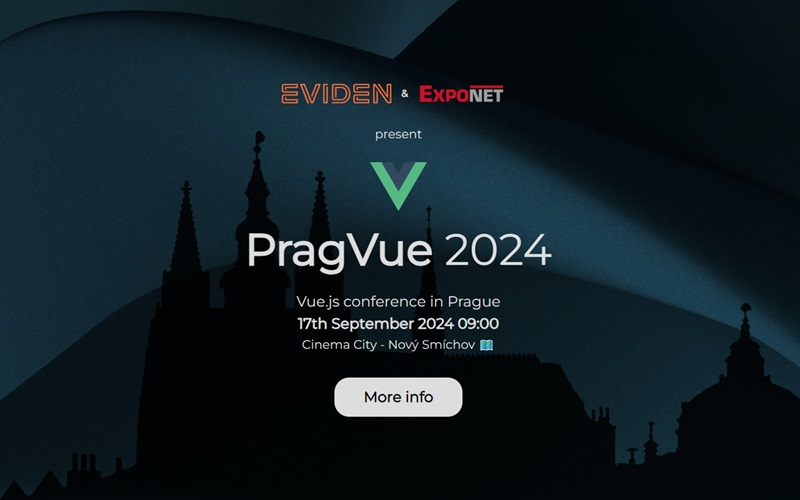
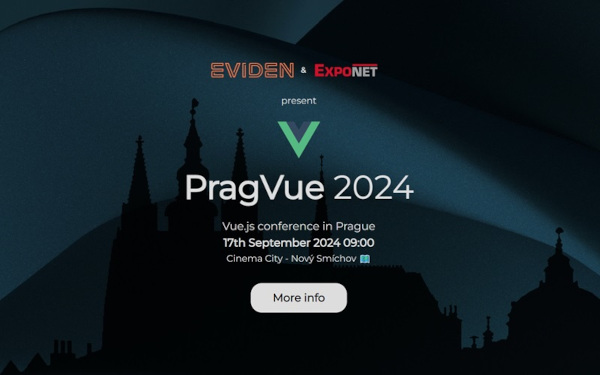
refactor: optimize images

Changed region(s): [[0.36, 0.5867, 0.6, 0.704], [0.63, 0.528, 0.66, 0.5573], [0.48, 0.792, 0.51, 0.8213]]

diff --git a/components/TheIntro.vue b/components/TheIntro.vue
@@ -1,5 +1,5 @@
 <template>
-  <div class="flex flex-col min-h-screen items-center justify-center bg-[url('/bg1.jpg')] bg-center bg-cover">
+  <div class="flex flex-col min-h-screen items-center justify-center bg-[url('/bg1.webp')] bg-center bg-cover">
     <div class="w-full max-w-[800px] p-2 flex flex-col flex-grow justify-center text-center">
       <div class="flex flex-col sm:flex-row gap- my-4 justify-center items-center text-[#dddddd] font-bold">
         <a href="https://digitalnispolecnost.cz/">
@@ -7,14 +7,14 @@
         </a>
         <span class="hidden sm:inline">&</span>
         <a href="https://www.exponet.cz/">
-          <img class="inline-block w-auto h-14 sm:h-16 cursor-pointer my-1" src="/exponet.png" alt="Exponet logo">
+          <img class="inline-block w-auto h-14 sm:h-16 cursor-pointer my-1" src="/exponet.webp" alt="Exponet logo">
         </a>
       </div>
       <div class="text-xl text-[#dddddd] mb-6 sm:mb-8">
         {{ $t('intro.present') }}
       </div>
       <div>
-        <img class="inline-block w-auto h-20 cursor-pointer mb-2" src="/vue.png" alt="Vue.js logo">
+        <img class="inline-block w-auto h-20 cursor-pointer mb-2" src="/vue.webp" alt="Vue.js logo">
       </div>
       <div class="flex flex-col min-[660px]:flex-row justify-center mb-4">
         <h1 class="inline-block mx-4 text-[56px] sm:text-[72px]">

diff --git a/components/TheTicket.vue b/components/TheTicket.vue
@@ -1,6 +1,6 @@
 <template>
   <a name="ticket" />
-  <div class="flex flex-col lg:flex-row gap-8 lg:gap-16 min-h-screen p-8 items-center justify-start bg-[url('/bg2.jpg')] bg-center bg-cover">
+  <div class="flex flex-col lg:flex-row gap-8 lg:gap-16 min-h-screen p-8 items-center justify-start bg-[url('/bg3.webp')] bg-center bg-cover">
     <div class="inline-block lg:w-1/2 text-center lg:text-right text-xl">
       <div class="inline-block mb-8 text-[45px] sm:text-[65px]">
         <span class="font-bold">PragVue</span> 2024

diff --git a/components/TheSchedule.vue b/components/TheSchedule.vue
@@ -1,6 +1,6 @@
 <template>
   <a name="schedule" />
-  <div class="flex flex-col lg:flex-row gap-8 lg:gap-16 min-h-screen p-8 items-center justify-start bg-[url('/bg2.jpg')] bg-center bg-cover">
+  <div class="flex flex-col lg:flex-row gap-8 lg:gap-16 min-h-screen p-8 items-center justify-start bg-[url('/bg2.webp')] bg-center bg-cover">
     <div class="inline-block lg:w-1/2 text-center lg:text-right">
       <div class="inline-block text-[43px] font-bold">
         {{ $t('schedule.title') }}

diff --git a/components/TheFeatures.vue b/components/TheFeatures.vue
@@ -25,7 +25,7 @@
     </div>
 
     <div class="inline-block lg:w-1/2 text-center lg:text-left">
-      <img src="/features.jpg" class="w-auto h-[240px]" alt="PragVue 2024 features">
+      <img src="/features.webp" class="w-auto h-[240px]" alt="PragVue 2024 features">
     </div>
   </div>
 </template>
